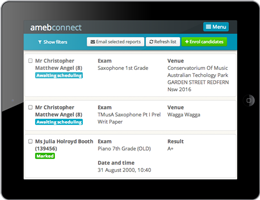
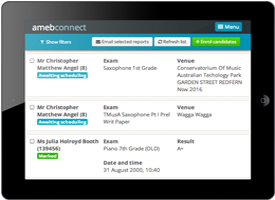
switcher for small screen

diff --git a/js/site.js b/js/site.js
@@ -27,7 +27,7 @@ $(document).ready(function(){
 	    $target = $(target);
 	    $('html, body').stop().animate({
 	        'scrollTop': $target.offset().top
-	    }, 1500, 'swing', function () {
+	    }, 700, 'swing', function () {
 	        window.location.hash = target;
 	    });
 	    // close navList
@@ -37,7 +37,10 @@ $(document).ready(function(){
 // image switcher
 
 	// set active image to display
-	$(".image.active").css({opacity:1, marginLeft:'-=200'});
+	$(".image.active").css({opacity:1});
+
+	// if screen size is greater than blah
+	// $(".image.active").css({opacity:1, marginLeft:'-=200'});
 
 	// list all switchers
 	var swtichContainers = $('.imageSwitcher');
@@ -50,8 +53,48 @@ $(document).ready(function(){
 		switcher(swtichContainers[i]);
 	};
 
-
 	function switcher(switcher){		
+		$(switcher.next).on('click', function(){
+			if($(switcher.images[0]).hasClass("active")){
+					$(switcher.images[0]).animate({opacity:0}, 150, function(){
+						$(this).removeClass('active');
+						$(switcher.images[1]).addClass('active').animate({opacity:1},150);		
+					});
+					$(switcher.displays[0]).removeClass('fa-circle').addClass('fa-circle-o');
+					$(switcher.displays[1]).removeClass('fa-circle-o').addClass('fa-circle');
+				}
+			else if($(switcher.images[1]).hasClass("active")){
+				$(switcher.images[1]).animate({opacity:0}, 150, function(){
+					$(this).removeClass('active');
+					$(switcher.images[2]).addClass('active').animate({opacity:1},150);		
+				});
+				$(switcher.displays[1]).removeClass('fa-circle').addClass('fa-circle-o');
+				$(switcher.displays[2]).removeClass('fa-circle-o').addClass('fa-circle');
+			}
+	
+		});
+	
+		$(switcher.prev).on('click', function(){
+			if($(switcher.images[1]).hasClass("active")){
+				$(switcher.images[1]).animate({opacity:0}, 150, function(){
+					$(this).removeClass('active');
+					$(switcher.images[0]).addClass('active').animate({opacity:1},150);		
+				});
+				$(switcher.displays[0]).removeClass('fa-circle-o').addClass('fa-circle');
+				$(switcher.displays[1]).removeClass('fa-circle').addClass('fa-circle-o');
+			}
+			else if($(switcher.images[2]).hasClass("active")){
+				$(switcher.images[2]).animate({opacity:0}, 150, function(){
+					$(this).removeClass('active');
+					$(switcher.images[1]).addClass('active').animate({opacity:1},150);		
+				});
+				$(switcher.displays[1]).removeClass('fa-circle-o').addClass('fa-circle');
+				$(switcher.displays[2]).removeClass('fa-circle').addClass('fa-circle-o');
+			}
+		});
+	};
+
+	function switcherLarge(switcher){		
 		$(switcher.next).on('click', function(){
 			if($(switcher.images[0]).hasClass("active")){
 					$(switcher.images[0]).animate({opacity:0, marginLeft:'-=200'}, 150, function(){

diff --git a/css/main.css b/css/main.css
@@ -218,17 +218,17 @@ footer {
   position: relative; }
 
 .image {
-  /*position: absolute;*/
   max-width: 275px;
   display: none; }
   .image.active {
     display: block;
     opacity: 0;
-    margin-left: 200px; }
+    /*margin-left: 200px;*/ }
   .image span {
     display: inline-block;
     width: 100%;
-    background-size: 100%; }
+    background-size: 100%;
+    background-repeat: no-repeat; }
     .image span span {
       display: inline-block;
       height: 0;
@@ -262,7 +262,7 @@ footer {
   background-image: url("/img/screenshots-sml/ameb-detail-sml.png"); }
 
 #amebImg3 {
-  background-image: url("/img/screenshots-sml/ameb-ipad-sml.png"); }
+  background-image: url("/img/screenshots-sml/ameb-ipad-sml1.png"); }
 
 #syllabusImg1 {
   background-image: url("/img/screenshots-sml/syllabus-home-sml.png"); }
@@ -297,7 +297,7 @@ footer {
     -o-transition: background 0.3s, -o-transform 0.3s;
     transition: background 0.3s, transform 0.3s; }
     .controls .prev:hover, .controls .next:hover {
-      background: #282828; }
+      background: rgba(0, 0, 0, 0.2); }
     .controls .prev i, .controls .next i {
       padding: 0 10px; }
       .controls .prev i:hover, .controls .prev i:focus, .controls .next i:hover, .controls .next i:focus {

diff --git a/scss/main.scss b/scss/main.scss
@@ -268,18 +268,18 @@ footer{
 	position: relative;
 }
 .image{
-	/*position: absolute;*/
 	max-width: 275px;
 	display: none;
 	&.active{
 		display: block;
 		opacity: 0;
-		margin-left: 200px;
+		/*margin-left: 200px;*/
 	}
 	span{
 		display: inline-block;
 		width: 100%;
 		background-size: 100%;
+		background-repeat: no-repeat;
 		span{
 			display: inline-block;
 			height: 0;
@@ -316,7 +316,7 @@ footer{
 	background-image: url("/img/screenshots-sml/ameb-detail-sml.png");
 }
 #amebImg3{
-	background-image: url("/img/screenshots-sml/ameb-ipad-sml.png");
+	background-image: url("/img/screenshots-sml/ameb-ipad-sml1.png");
 }
 #syllabusImg1{
 	background-image: url("/img/screenshots-sml/syllabus-home-sml.png");
@@ -347,7 +347,7 @@ footer{
 		font-size: 2em;		
 		@include transition(background);
 		&:hover{
-			background:$black;
+			background:$shadowLight;
 		}
 
 		i{
